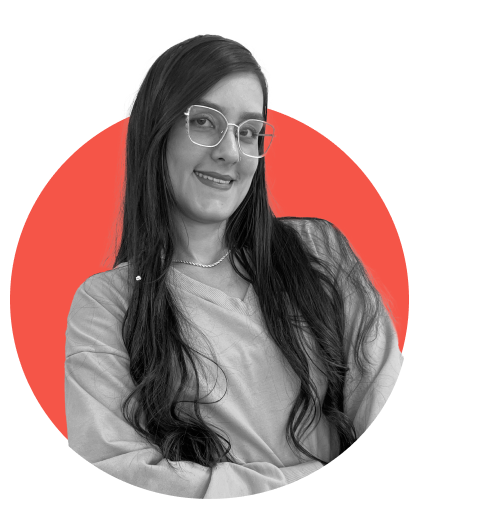
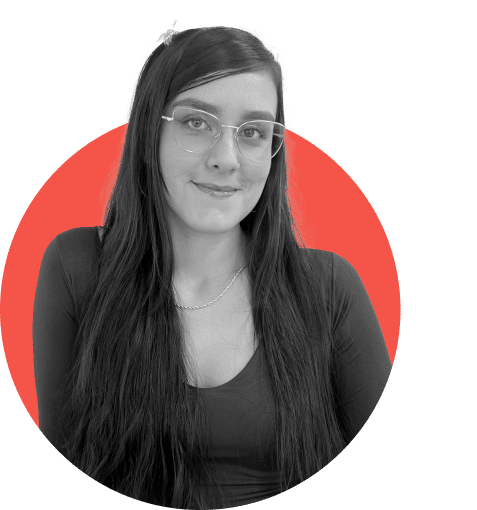
new members

diff --git a/src/app/teamMembers.js b/src/app/teamMembers.js
@@ -9,9 +9,8 @@ import manuImg from "/public/teamMembers/news/manuImg.png";
 import mileImg from "/public/teamMembers/news/mileImg.png";
 import moniImg from "/public/teamMembers/news/moniImg.png";
 import saraImg from "/public/teamMembers/news/saraImg.png";
-import sebasImg from "/public/teamMembers/news/sebasImg.png";
 import tomasImg from "/public/teamMembers/news/tomasImg.png";
-import mateoImg from "/public/teamMembers/news/mateoImg.png";
+import edwinImg from "/public/teamMembers/news/edwinImg.png";
 import federicoImg from "/public/teamMembers/news/federicoImg.png";
 import kellyImg from "/public/teamMembers/news/kellyImg.png";
 import yenniImg from "/public/teamMembers/news/yenniImg.png";
@@ -19,11 +18,12 @@ import dannitwoImg from "/public/teamMembers/news/danitwo.png";
 import andreaImg from "/public/teamMembers/news/andreaImg.png";
 import susanaImg from "/public/teamMembers/news/susanaImg.png";
 import ignacioImg from "/public/teamMembers/news/IgnacioImg.png";
+import isabelImg from "/public/teamMembers/news/isabelImg.png";
 
 export const teamMembers = [
   {
-    img: mateoImg,
-    name: "Mateo Morales",
+    img: edwinImg,
+    name: "Edwin Atehortúa",
     profesion: "Director Creativo",
     position: 1,
   },
@@ -100,7 +100,12 @@ export const teamMembers = [
     profesion: "Creativa Gráfica",
     position: 12,
   },
-
+  {
+    img: isabelImg,
+    name: "Isabel Benavides",
+    profesion: "Community manager",
+    position: 13,
+  },
   {
     img: dannitwoImg,
     name: "Daniela Soto",
@@ -111,6 +116,12 @@ export const teamMembers = [
     name: "Susana Cano",
     profesion: "Creativa Gráfica",
     position: 15,
+  },
+  {
+    img: andreaImg,
+    name: "Andrea Suaza",
+    profesion: "Ejecutiva de cuentas",
+    position: 22,
   },
   {
     img: emmaImg,
@@ -135,11 +146,5 @@ export const teamMembers = [
     name: "Mónica Arias",
     profesion: "Coordinadora de RH",
     position: 21,
-  },
-  {
-    img: andreaImg,
-    name: "Andrea Suaza",
-    profesion: "Ejecutiva de cuentas",
-    position: 22,
   },
 ];
